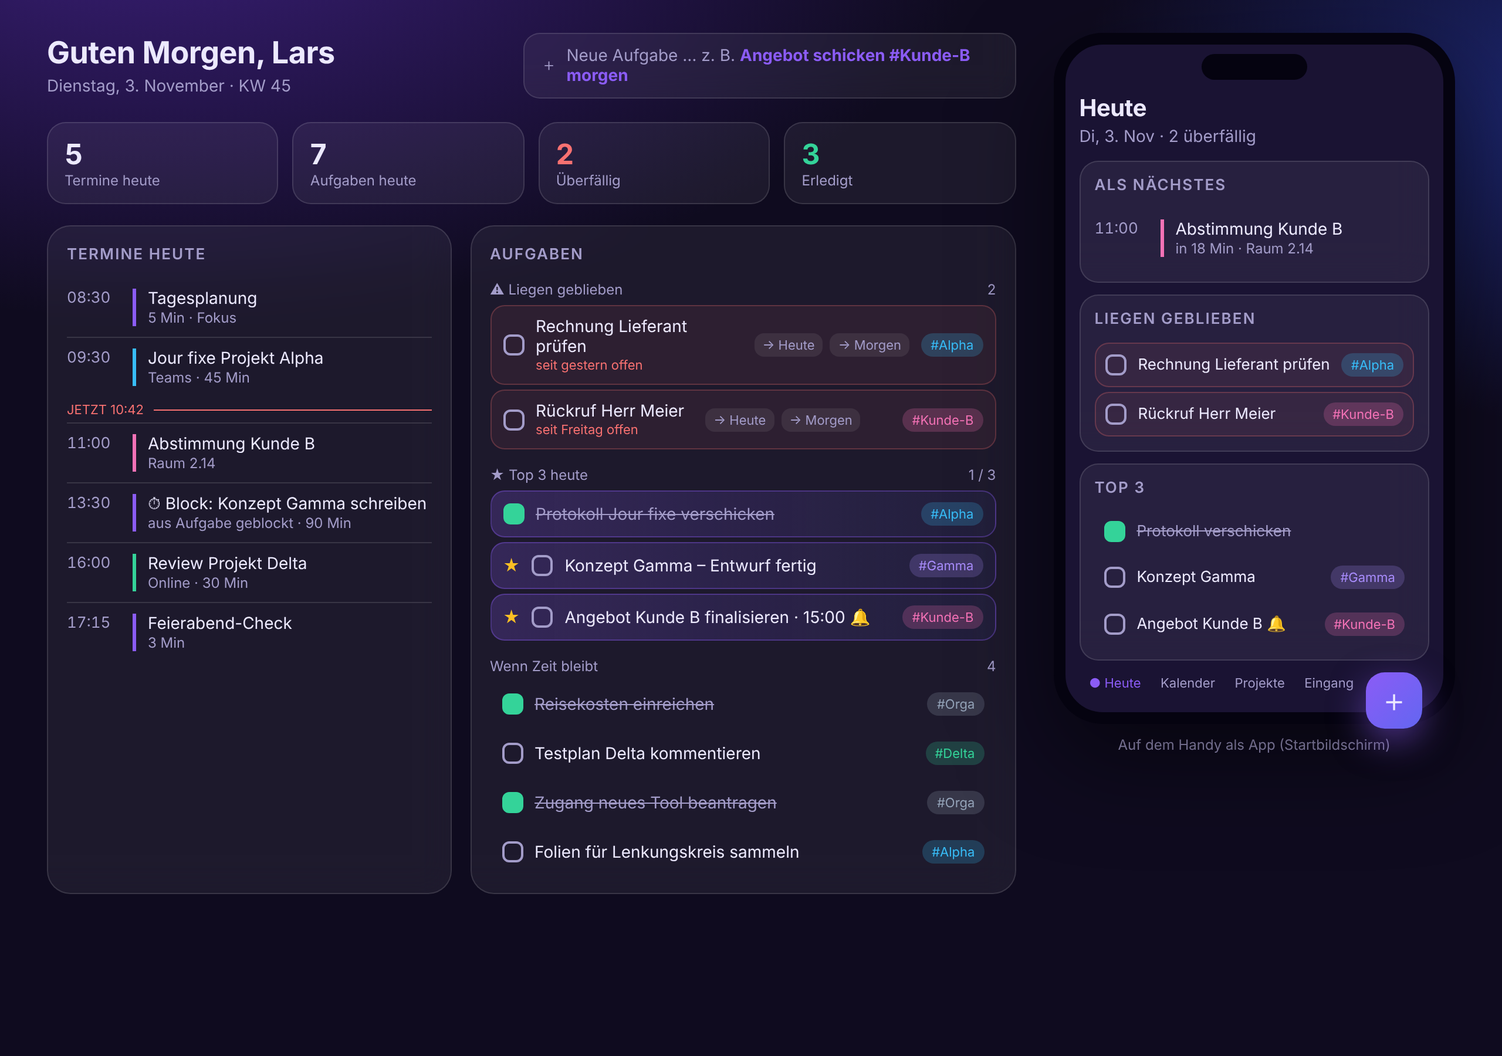
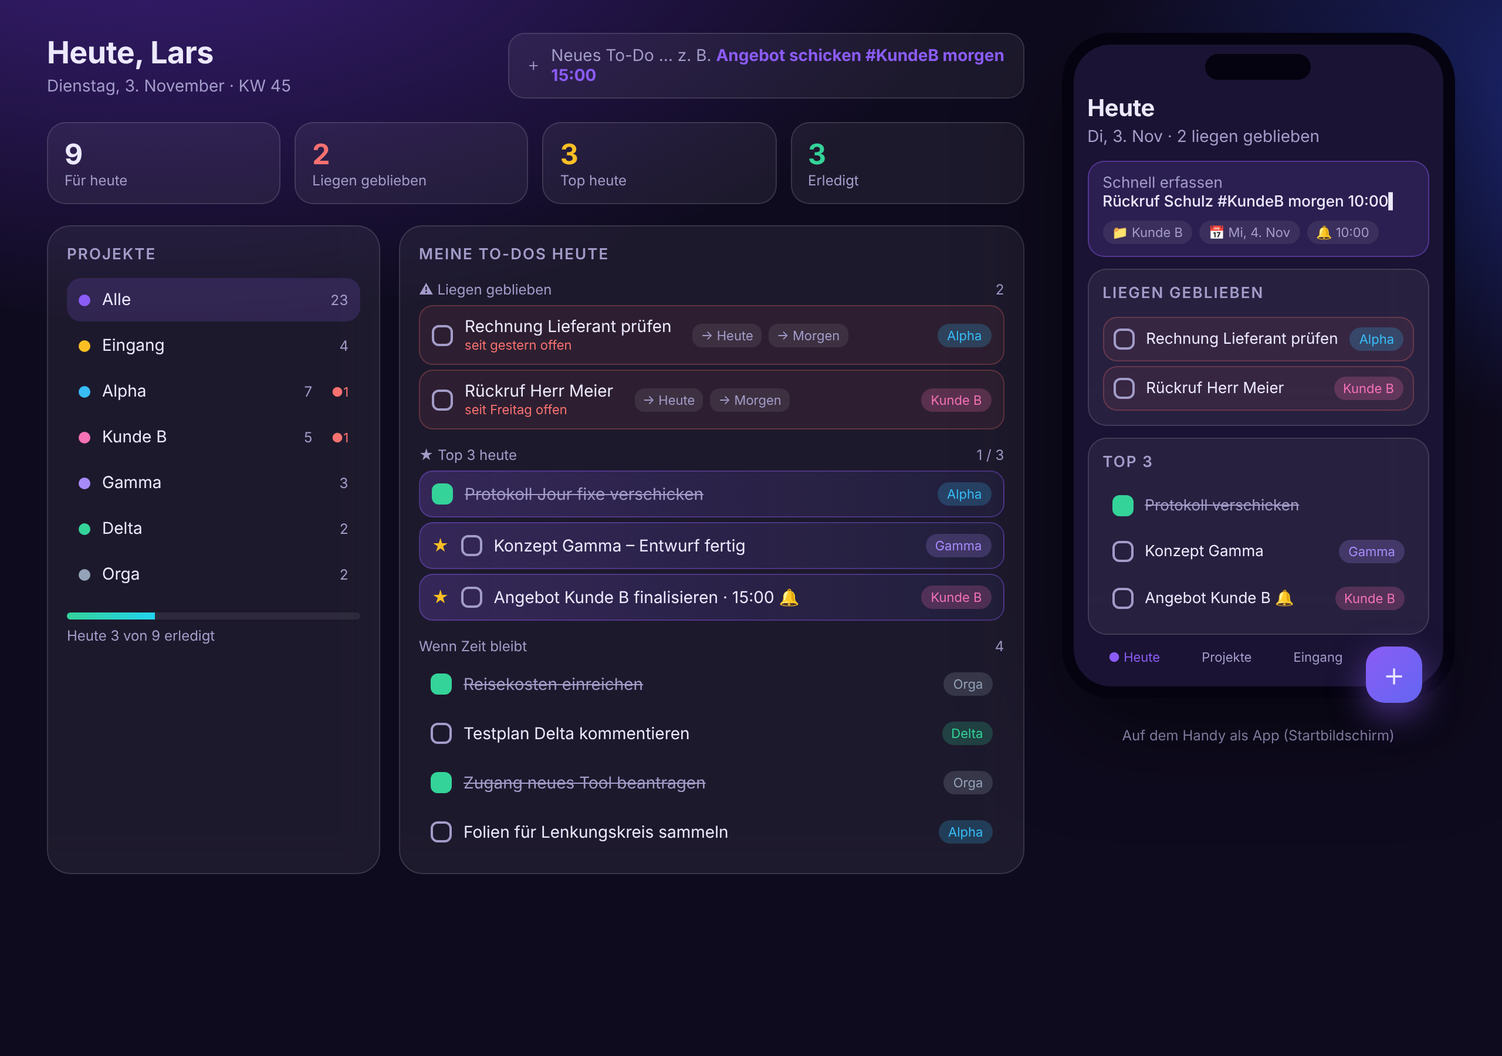
Plan auf reine To-Dos mit Google Tasks umgestellt, Entwurf ohne Kalender
Claude-Session: https://claude.ai/code/session_01KWwVGv9hX3GPZUP2uQExqH

diff --git a/entwurf/cockpit-entwurf.html b/entwurf/cockpit-entwurf.html
@@ -3,7 +3,7 @@
 <head>
 <meta charset="utf-8">
 <meta name="viewport" content="width=device-width, initial-scale=1">
-<title>Tages-Cockpit Entwurf</title>
+<title>To-Do Cockpit Entwurf</title>
 <style>
 :root{--bg:#0f0b1f;--bg2:#1a1333;--card:rgba(255,255,255,.06);--line:rgba(255,255,255,.12);--text:#ece9ff;--muted:#a39cc9;--accent:#8b5cf6;--accent2:#6366f1;--red:#f87171;--green:#34d399;--amber:#fbbf24}
 *{box-sizing:border-box}
@@ -13,22 +13,24 @@ body{margin:0;font-family:system-ui,-apple-system,"Segoe UI",sans-serif;color:va
 header{display:flex;justify-content:space-between;align-items:center;margin-bottom:20px;gap:12px;flex-wrap:wrap}
 h1{font-size:26px;margin:0;font-weight:650;letter-spacing:-.01em}
 .date{color:var(--muted);font-size:14px;margin-top:4px}
-.add{flex:1;max-width:420px;display:flex;align-items:center;gap:8px;background:var(--card);border:1px solid var(--line);border-radius:14px;padding:10px 14px;color:var(--muted);font-size:14px;backdrop-filter:blur(12px)}
+.add{flex:1;max-width:440px;display:flex;align-items:center;gap:8px;background:var(--card);border:1px solid var(--line);border-radius:14px;padding:10px 14px;color:var(--muted);font-size:14px}
 .add b{color:var(--accent)}
 .stats{display:grid;grid-template-columns:repeat(4,1fr);gap:12px;margin-bottom:18px}
 .stat{background:var(--card);border:1px solid var(--line);border-radius:16px;padding:12px 14px}
 .stat .n{font-size:24px;font-weight:700}
 .stat .l{font-size:12px;color:var(--muted)}
-.grid{display:grid;grid-template-columns:1fr 1.35fr;gap:16px}
+.grid{display:grid;grid-template-columns:.8fr 1.5fr;gap:16px}
 .card{background:var(--card);border:1px solid var(--line);border-radius:20px;padding:16px;backdrop-filter:blur(14px)}
 .card h2{font-size:13px;text-transform:uppercase;letter-spacing:.08em;color:var(--muted);margin:0 0 12px;font-weight:600}
-.ev{display:flex;gap:12px;padding:9px 0;border-top:1px solid var(--line)}
-.ev:first-of-type{border-top:0}
-.t{font-variant-numeric:tabular-nums;color:var(--muted);font-size:13px;width:44px;flex:none}
-.evb{border-left:3px solid var(--c,#6366f1);padding-left:10px;font-size:14px}
-.evb small{display:block;color:var(--muted);font-size:12px}
-.now{display:flex;align-items:center;gap:8px;color:var(--red);font-size:11px;margin:4px 0}
-.now:after{content:"";flex:1;height:1px;background:var(--red)}
+.proj{display:flex;align-items:center;gap:10px;padding:10px;border-radius:12px;font-size:14px}
+.proj+.proj{margin-top:2px}
+.proj.on{background:rgba(139,92,246,.18)}
+.dot{width:10px;height:10px;border-radius:50%;background:var(--c);flex:none}
+.proj .cnt{margin-left:auto;color:var(--muted);font-size:12px;font-variant-numeric:tabular-nums}
+.proj .warn{color:var(--red);font-size:11px;margin-left:6px}
+.bar{height:6px;border-radius:6px;background:rgba(255,255,255,.08);margin-top:14px;overflow:hidden}
+.bar i{display:block;height:100%;width:30%;background:linear-gradient(90deg,var(--green),#22d3ee)}
+.small{font-size:12px;color:var(--muted);margin-top:6px}
 .task{display:flex;align-items:center;gap:10px;padding:9px 10px;border-radius:12px;font-size:14px}
 .task+.task{margin-top:4px}
 .box{width:18px;height:18px;border:2px solid var(--muted);border-radius:6px;flex:none}
@@ -47,10 +49,14 @@ h1{font-size:26px;margin:0;font-weight:650;letter-spacing:-.01em}
 .phone h1{font-size:20px}
 .phone .card{padding:12px;border-radius:16px;margin-bottom:10px}
 .phone .task{font-size:13px;padding:8px}
-.tabbar{display:flex;justify-content:space-around;margin-top:12px;padding-right:56px;font-size:11px;color:var(--muted)}
+.quick{background:rgba(139,92,246,.15);border:1px solid rgba(139,92,246,.4);border-radius:14px;padding:10px 12px;font-size:13px;color:var(--muted);margin-bottom:10px}
+.quick b{color:var(--text);font-weight:500}
+.chips{display:flex;gap:6px;margin-top:8px;flex-wrap:wrap}
+.chips span{font-size:11px;padding:3px 8px;border-radius:999px;background:rgba(255,255,255,.08)}
+.tabbar{display:flex;justify-content:space-around;margin-top:12px;font-size:11px;color:var(--muted);padding-right:56px}
 .tabbar .on{color:var(--accent)}
 .fab{position:absolute;right:18px;bottom:-14px;width:48px;height:48px;border-radius:16px;background:linear-gradient(135deg,var(--accent),var(--accent2));display:grid;place-items:center;font-size:26px;box-shadow:0 10px 30px rgba(139,92,246,.5)}
-.cap{color:var(--muted);font-size:12px;text-align:center;margin-top:10px}
+.cap{color:var(--muted);font-size:12px;text-align:center;margin-top:24px}
 @media(max-width:760px){.grid{grid-template-columns:1fr}.stats{grid-template-columns:repeat(2,1fr)}.phone{flex-basis:100%;max-width:320px;margin:0 auto}}
 </style>
 </head>
@@ -58,64 +64,64 @@ h1{font-size:26px;margin:0;font-weight:650;letter-spacing:-.01em}
 <div class="wrap">
  <div class="desk">
   <header>
-   <div><h1>Guten Morgen, Lars</h1><div class="date">Dienstag, 3. November · KW 45</div></div>
-   <div class="add">＋ <span>Neue Aufgabe … z. B. <b>Angebot schicken #Kunde-B morgen</b></span></div>
+   <div><h1>Heute, Lars</h1><div class="date">Dienstag, 3. November · KW 45</div></div>
+   <div class="add">＋ <span>Neues To-Do … z. B. <b>Angebot schicken #KundeB morgen 15:00</b></span></div>
   </header>
   <div class="stats">
-   <div class="stat"><div class="n">5</div><div class="l">Termine heute</div></div>
-   <div class="stat"><div class="n">7</div><div class="l">Aufgaben heute</div></div>
-   <div class="stat"><div class="n" style="color:var(--red)">2</div><div class="l">Überfällig</div></div>
+   <div class="stat"><div class="n">9</div><div class="l">Für heute</div></div>
+   <div class="stat"><div class="n" style="color:var(--red)">2</div><div class="l">Liegen geblieben</div></div>
+   <div class="stat"><div class="n" style="color:var(--amber)">3</div><div class="l">Top heute</div></div>
    <div class="stat"><div class="n" style="color:var(--green)">3</div><div class="l">Erledigt</div></div>
   </div>
   <div class="grid">
    <div class="card">
-    <h2>Termine heute</h2>
-    <div class="ev"><div class="t">08:30</div><div class="evb" style="--c:#8b5cf6">Tagesplanung<small>5 Min · Fokus</small></div></div>
-    <div class="ev"><div class="t">09:30</div><div class="evb" style="--c:#38bdf8">Jour fixe Projekt Alpha<small>Teams · 45 Min</small></div></div>
-    <div class="now">JETZT 10:42</div>
-    <div class="ev"><div class="t">11:00</div><div class="evb" style="--c:#f472b6">Abstimmung Kunde B<small>Raum 2.14</small></div></div>
-    <div class="ev"><div class="t">13:30</div><div class="evb" style="--c:#8b5cf6">⏱ Block: Konzept Gamma schreiben<small>aus Aufgabe geblockt · 90 Min</small></div></div>
-    <div class="ev"><div class="t">16:00</div><div class="evb" style="--c:#34d399">Review Projekt Delta<small>Online · 30 Min</small></div></div>
-    <div class="ev"><div class="t">17:15</div><div class="evb" style="--c:#8b5cf6">Feierabend-Check<small>3 Min</small></div></div>
+    <h2>Projekte</h2>
+    <div class="proj on"><div class="dot" style="--c:#8b5cf6"></div>Alle<span class="cnt">23</span></div>
+    <div class="proj"><div class="dot" style="--c:#fbbf24"></div>Eingang<span class="cnt">4</span></div>
+    <div class="proj"><div class="dot" style="--c:#38bdf8"></div>Alpha<span class="cnt">7</span><span class="warn">●1</span></div>
+    <div class="proj"><div class="dot" style="--c:#f472b6"></div>Kunde B<span class="cnt">5</span><span class="warn">●1</span></div>
+    <div class="proj"><div class="dot" style="--c:#a78bfa"></div>Gamma<span class="cnt">3</span></div>
+    <div class="proj"><div class="dot" style="--c:#34d399"></div>Delta<span class="cnt">2</span></div>
+    <div class="proj"><div class="dot" style="--c:#94a3b8"></div>Orga<span class="cnt">2</span></div>
+    <div class="bar"><i></i></div>
+    <div class="small">Heute 3 von 9 erledigt</div>
    </div>
    <div class="card">
-    <h2>Aufgaben</h2>
+    <h2>Meine To-Dos heute</h2>
     <div class="sec"><span>⚠ Liegen geblieben</span><span>2</span></div>
-    <div class="task over"><div class="box"></div><span class="txt">Rechnung Lieferant prüfen<span class="meta">seit gestern offen</span></span><div class="btns"><i>→ Heute</i><i>→ Morgen</i></div><span class="tag" style="--c:#38bdf8">#Alpha</span></div>
-    <div class="task over"><div class="box"></div><span class="txt">Rückruf Herr Meier<span class="meta">seit Freitag offen</span></span><div class="btns"><i>→ Heute</i><i>→ Morgen</i></div><span class="tag" style="--c:#f472b6">#Kunde-B</span></div>
+    <div class="task over"><div class="box"></div><span class="txt">Rechnung Lieferant prüfen<span class="meta">seit gestern offen</span></span><div class="btns"><i>→ Heute</i><i>→ Morgen</i></div><span class="tag" style="--c:#38bdf8">Alpha</span></div>
+    <div class="task over"><div class="box"></div><span class="txt">Rückruf Herr Meier<span class="meta">seit Freitag offen</span></span><div class="btns"><i>→ Heute</i><i>→ Morgen</i></div><span class="tag" style="--c:#f472b6">Kunde B</span></div>
     <div class="sec"><span>★ Top 3 heute</span><span>1 / 3</span></div>
-    <div class="task top done"><div class="box"></div><span class="txt">Protokoll Jour fixe verschicken</span><span class="tag" style="--c:#38bdf8">#Alpha</span></div>
-    <div class="task top"><span class="star">★</span><div class="box"></div><span class="txt">Konzept Gamma – Entwurf fertig</span><span class="tag" style="--c:#a78bfa">#Gamma</span></div>
-    <div class="task top"><span class="star">★</span><div class="box"></div><span class="txt">Angebot Kunde B finalisieren · 15:00 🔔</span><span class="tag" style="--c:#f472b6">#Kunde-B</span></div>
+    <div class="task top done"><div class="box"></div><span class="txt">Protokoll Jour fixe verschicken</span><span class="tag" style="--c:#38bdf8">Alpha</span></div>
+    <div class="task top"><span class="star">★</span><div class="box"></div><span class="txt">Konzept Gamma – Entwurf fertig</span><span class="tag" style="--c:#a78bfa">Gamma</span></div>
+    <div class="task top"><span class="star">★</span><div class="box"></div><span class="txt">Angebot Kunde B finalisieren · 15:00 🔔</span><span class="tag" style="--c:#f472b6">Kunde B</span></div>
     <div class="sec"><span>Wenn Zeit bleibt</span><span>4</span></div>
-    <div class="task done"><div class="box"></div><span class="txt">Reisekosten einreichen</span><span class="tag" style="--c:#94a3b8">#Orga</span></div>
-    <div class="task"><div class="box"></div><span class="txt">Testplan Delta kommentieren</span><span class="tag" style="--c:#34d399">#Delta</span></div>
-    <div class="task done"><div class="box"></div><span class="txt">Zugang neues Tool beantragen</span><span class="tag" style="--c:#94a3b8">#Orga</span></div>
-    <div class="task"><div class="box"></div><span class="txt">Folien für Lenkungskreis sammeln</span><span class="tag" style="--c:#38bdf8">#Alpha</span></div>
+    <div class="task done"><div class="box"></div><span class="txt">Reisekosten einreichen</span><span class="tag" style="--c:#94a3b8">Orga</span></div>
+    <div class="task"><div class="box"></div><span class="txt">Testplan Delta kommentieren</span><span class="tag" style="--c:#34d399">Delta</span></div>
+    <div class="task done"><div class="box"></div><span class="txt">Zugang neues Tool beantragen</span><span class="tag" style="--c:#94a3b8">Orga</span></div>
+    <div class="task"><div class="box"></div><span class="txt">Folien für Lenkungskreis sammeln</span><span class="tag" style="--c:#38bdf8">Alpha</span></div>
    </div>
   </div>
  </div>
 
  <div>
  <div class="phone">
-  <h1>Heute</h1><div class="date" style="margin-bottom:12px">Di, 3. Nov · 2 überfällig</div>
-  <div class="card">
-   <h2>Als Nächstes</h2>
-   <div class="ev"><div class="t">11:00</div><div class="evb" style="--c:#f472b6">Abstimmung Kunde B<small>in 18 Min · Raum 2.14</small></div></div>
-  </div>
+  <h1>Heute</h1><div class="date" style="margin-bottom:12px">Di, 3. Nov · 2 liegen geblieben</div>
+  <div class="quick">Schnell erfassen<br><b>Rückruf Schulz #KundeB morgen 10:00▍</b>
+   <div class="chips"><span>📁 Kunde B</span><span>📅 Mi, 4. Nov</span><span>🔔 10:00</span></div></div>
   <div class="card">
    <h2>Liegen geblieben</h2>
-   <div class="task over"><div class="box"></div><span class="txt">Rechnung Lieferant prüfen</span><span class="tag" style="--c:#38bdf8">#Alpha</span></div>
-   <div class="task over"><div class="box"></div><span class="txt">Rückruf Herr Meier</span><span class="tag" style="--c:#f472b6">#Kunde-B</span></div>
+   <div class="task over"><div class="box"></div><span class="txt">Rechnung Lieferant prüfen</span><span class="tag" style="--c:#38bdf8">Alpha</span></div>
+   <div class="task over"><div class="box"></div><span class="txt">Rückruf Herr Meier</span><span class="tag" style="--c:#f472b6">Kunde B</span></div>
   </div>
   <div class="card">
    <h2>Top 3</h2>
    <div class="task done"><div class="box"></div><span class="txt">Protokoll verschicken</span></div>
-   <div class="task"><div class="box"></div><span class="txt">Konzept Gamma</span><span class="tag" style="--c:#a78bfa">#Gamma</span></div>
-   <div class="task"><div class="box"></div><span class="txt">Angebot Kunde B 🔔</span><span class="tag" style="--c:#f472b6">#Kunde-B</span></div>
+   <div class="task"><div class="box"></div><span class="txt">Konzept Gamma</span><span class="tag" style="--c:#a78bfa">Gamma</span></div>
+   <div class="task"><div class="box"></div><span class="txt">Angebot Kunde B 🔔</span><span class="tag" style="--c:#f472b6">Kunde B</span></div>
   </div>
   <div class="fab">＋</div>
-  <div class="tabbar"><span class="on">● Heute</span><span>Kalender</span><span>Projekte</span><span>Eingang</span></div>
+  <div class="tabbar"><span class="on">● Heute</span><span>Projekte</span><span>Eingang</span></div>
  </div>
  <div class="cap">Auf dem Handy als App (Startbildschirm)</div>
  </div>

diff --git a/PLAN.md b/PLAN.md
@@ -1,101 +1,63 @@
-# Plan: Mein Tages-Cockpit für Aufgaben und Termine
+# Plan: Schluss mit den gelben Zetteln
 
-## Das Problem in einem Satz
-Viele Projekte gleichzeitig → Aufgaben liegen verstreut (Mails, Notizen, Kopf) → am Ende des Tages fällt etwas durch.
+## Ziel
+Alle beruflichen To-Dos an **einem** Ort statt auf Zetteln am Schreibtisch:
+- zeigt jeden Morgen, was **heute** dran ist,
+- behält Unerledigtes sichtbar, bis es erledigt oder bewusst gestrichen ist,
+- erinnert per Handy,
+- am PC und auf dem Handy gleich, **komplett kostenlos**.
 
-## Das Ziel
-Ein einziger Ort, der jeden Morgen zeigt:
-1. **Meine Termine heute** (aus dem Google Kalender)
-2. **Meine Aufgaben heute** – plus alles, was gestern liegen geblieben ist
-3. **Erinnerungen**, damit nichts vergessen wird
-
-Und das am PC und auf dem Handy gleich.
+**Abgrenzung:** Feste Termine bleiben im Outlook-Kalender. Hier geht es nur um To-Dos.
+**Speicherort:** Google Tasks im privaten Google-Konto.
 
 ---
 
-## Grundregeln (die Methode ist wichtiger als das Tool)
+## Die Regeln (wichtiger als das Tool)
 
 | Regel | Was das heißt |
 |---|---|
-| **1. Ein Eingang** | Jede Aufgabe landet sofort an *einem* Ort, egal aus welchem Projekt. Kein Zettel, keine zweite Liste. |
-| **2. Erfassen in 10 Sekunden** | Titel + Projekt + (optional) Datum. Mehr nicht. Sortieren kommt später. |
-| **3. Projekt als Etikett** | Jede Aufgabe bekommt ein Projekt-Kürzel (z. B. `#Alpha`, `#Kunde-B`). So bleibt eine Liste, aber man kann filtern. |
-| **4. Nichts verschwindet** | Unerledigtes wandert automatisch in „Heute – überfällig“. Es wird nie stillschweigend gelöscht. |
-| **5. Maximal 3 Top-Aufgaben pro Tag** | Der Rest ist „wenn Zeit bleibt“. Das hält den Tag realistisch. |
-| **6. Große Aufgaben bekommen einen Kalenderblock** | Was länger als 30 Minuten dauert, wird als Termin geblockt – sonst passiert es nicht. |
+| **1. Kein neuer Zettel** | Jedes To-Do sofort ins Handy oder in den PC tippen. Der Zettelblock kommt in die Schublade. |
+| **2. In 10 Sekunden erfassen** | Titel + Projekt, Datum nur wenn nötig. Sortiert wird später. |
+| **3. Jedes To-Do hat ein Projekt** | Kürzel vorn im Titel, z. B. `[Alpha] Protokoll verschicken`. Alles ohne Projekt landet in „Eingang“. |
+| **4. Nichts verschwindet** | Unerledigtes von gestern taucht oben unter „Liegen geblieben“ auf, bis du es erledigst, verschiebst oder bewusst löschst. |
+| **5. Höchstens 3 Top-To-Dos pro Tag** | Der Rest heißt „wenn Zeit bleibt“. |
+| **6. Erinnerung nur, wo nötig** | Uhrzeit nur setzen, wenn es wirklich zu einer Zeit passieren muss (Rückruf, Abgabe). |
+
+**Datenschutz-Hinweis:** Da es ein privates Konto ist, nur Stichworte notieren (z. B. „Angebot Kunde B finalisieren“), keine vertraulichen Inhalte, Zahlen oder Personendaten.
 
 ---
 
-## Der Tagesablauf (Workflow)
+## Der Tagesablauf
 
 | Wann | Dauer | Was |
 |---|---|---|
-| **Morgens** | 5 Min | Cockpit öffnen → Termine ansehen → überfällige Aufgaben neu einplanen oder streichen → 3 Top-Aufgaben markieren |
-| **Tagsüber** | Sekunden | Neue Aufgaben sofort per Handy oder PC erfassen (Eingang). Erledigtes abhaken. |
-| **Erinnerungen** | automatisch | Bei Aufgaben mit Uhrzeit + 10 Min vor Kalenderblöcken |
-| **Feierabend** | 3 Min | Was offen ist: auf morgen schieben, delegieren oder bewusst löschen |
-| **Freitag** | 15 Min | Wochenrückblick: alle Projekte durchgehen, nächste Woche grob blocken |
+| **Morgens** | 3 Min | Ansicht „Heute“ öffnen → Liegengebliebenes auf heute/morgen schieben oder streichen → 3 Top-To-Dos markieren |
+| **Tagsüber** | Sekunden | Statt Zettel: Handy oder PC, Plus-Knopf, tippen, fertig |
+| **Feierabend** | 2 Min | Offenes verschieben oder streichen, Eingang leeren |
+| **Freitag** | 10 Min | Alle Projekte durchgehen: Was hängt? Was ist erledigt? |
 
 ---
 
-## Drei Wege zum Tool – mit Empfehlung
+## Umsetzung in zwei Stufen
 
-### Weg A: Google Tasks + Google Kalender (sofort, kostenlos)
-- Aufgaben direkt im Google Kalender und in der Google-Tasks-App auf dem Handy.
-- Je Projekt eine eigene Liste.
-- **Plus:** null Aufwand, alles schon da, Erinnerungen per Handy.
-- **Minus:** keine Projekt-Etiketten, keine schöne Tagesansicht über alle Listen, Überfälliges wird nur schwach hervorgehoben.
+### Stufe 1 – Sofort, mit der Google-Tasks-App (heute, 30 Min)
+- [ ] Google-Tasks-App aufs Handy (Android/iOS), Benachrichtigungen erlauben
+- [ ] Am PC: Google Tasks ist in Gmail/Google Kalender rechts in der Seitenleiste, oder direkt unter tasks.google.com
+- [ ] Listen anlegen: **Eingang** + eine Liste je aktivem Projekt
+- [ ] **Zettel-Ablöse:** alle gelben Zettel einmal abtippen. Abkürzung: Zettel fotografieren, Foto hier im Chat hochladen, Claude macht daraus eine fertige Liste mit Projekt-Kürzeln zum Abtippen.
+- [ ] Zettel wegwerfen
 
-### Weg B: Todoist (fertige App, ca. 5 €/Monat für Pro)
-- Beste fertige Lösung für viele Projekte: Etiketten, Filter, „Heute“-Ansicht mit Überfälligem, Spracheingabe („Angebot an Kunde B Freitag 10 Uhr #Kunde-B“).
-- Zwei-Wege-Abgleich mit dem Google Kalender.
-- **Plus:** sehr intuitiv, App für Handy, PC, Browser.
-- **Minus:** Erinnerungen und Kalender-Abgleich nur in der bezahlten Version; Daten liegen bei einem weiteren Anbieter.
+Damit ist das Kernproblem schon gelöst. Die Lücke von Google Tasks: Es gibt **keine gemeinsame „Heute“-Ansicht über alle Listen**, Überfälliges ist nur klein rot markiert und Top 3 gibt es nicht. Das schließt Stufe 2.
 
-### Weg C: Eigenes Tages-Cockpit (dieses Repository) ⭐ Empfehlung auf Sicht
-Eine eigene Web-App, die genau deinen Workflow abbildet:
-- **Daten bleiben bei Google:** Aufgaben werden in Google Tasks gespeichert, Termine kommen aus dem Google Kalender. Kein eigener Server, kein Datenverlust, wenn die App mal nicht läuft – die Google-Apps funktionieren weiter.
-- **Eine Ansicht für alles:** Termine als Zeitleiste links, Aufgaben rechts, Überfälliges oben rot markiert, Top 3 hervorgehoben, Filter nach Projekt.
-- **Aufs Handy als App:** als „PWA“ – einmal im Browser öffnen, „Zum Startbildschirm hinzufügen“, fertig. Kein App-Store nötig.
-- **Erinnerungen:** über die Google-Tasks- und Kalender-Benachrichtigungen auf dem Handy, die ohnehin schon funktionieren.
-- **Komplett kostenlos:** Google Kalender und Google Tasks samt Schnittstellen kosten bei privater Nutzung nichts, das Hosting läuft gratis über GitHub Pages (Repo muss dafür öffentlich sein, es enthält aber nur Programmcode, keine Aufgaben) oder alternativ Cloudflare Pages / Netlify (auch mit privatem Repo kostenlos).
+### Stufe 2 – Eigenes Cockpit „Heute“ (2–3 Sitzungen)
+Eine kleine Web-App, die auf **dieselben Google-Tasks-Daten** zugreift, nur mit besserer Oberfläche (siehe Entwurf):
+- [ ] Anmeldung mit dem privaten Google-Konto (Google-Cloud-Projekt, Tasks-Schnittstelle, kostenlos)
+- [ ] Ansicht „Heute“: Liegen geblieben · Top 3 · Wenn Zeit bleibt, über alle Listen hinweg
+- [ ] Ein Klick: „→ Heute“, „→ Morgen“, „Erledigt“, „★ Top“
+- [ ] Schnell-Eingabe: `Angebot schicken #KundeB morgen 15:00` → richtige Liste, richtiges Datum
+- [ ] Projektübersicht: wie viel ist je Projekt offen, was hängt seit Tagen
+- [ ] Kostenlos online über GitHub Pages / Cloudflare Pages; aufs Handy über „Zum Startbildschirm hinzufügen“
 
-**Meine Empfehlung:** Heute mit **Weg A** starten (die Methode einüben, kostet nichts), parallel **Weg C** bauen. Da Weg C auf denselben Google-Daten aufsetzt, geht nichts verloren – das Cockpit ist einfach die bessere Oberfläche obendrauf. Wer lieber gar nichts bauen will, nimmt Weg B.
+Weil alles in Google Tasks gespeichert bleibt, funktionieren die Google-App und ihre Erinnerungen parallel weiter. Fällt das Cockpit mal aus, geht nichts verloren.
 
-Ein Entwurf des Cockpits liegt unter [`entwurf/cockpit-entwurf.html`](entwurf/cockpit-entwurf.html), der Screenshot unter [`entwurf/cockpit-entwurf.png`](entwurf/cockpit-entwurf.png).
-
----
-
-## Umsetzungsplan
-
-### Phase 0 – Sofort (heute, 30 Min)
-- [ ] In Google Tasks eine Liste „Eingang“ anlegen; je aktivem Projekt eine Liste
-- [ ] Google-Tasks-App auf dem Handy installieren, Benachrichtigungen an
-- [ ] Alle Aufgaben aus dem Kopf und aus Notizen einmal in „Eingang“ schreiben
-- [ ] Wiederkehrende Kalendertermine anlegen: „Tagesplanung“ (morgens 5 Min), „Feierabend-Check“ (3 Min), „Wochenrückblick“ (Fr, 15 Min)
-
-### Phase 1 – Grundgerüst Cockpit (1–2 Sitzungen)
-- [ ] Google-Cloud-Projekt anlegen, Kalender- und Tasks-Schnittstelle freischalten, Login einrichten
-- [ ] Web-App mit Anmeldung über das Google-Konto
-- [ ] Tagesansicht: Termine heute + Aufgaben heute + Überfälliges
-- [ ] Abhaken, neue Aufgabe erfassen, „auf morgen schieben“ mit einem Klick
-- [ ] Veröffentlichung über GitHub Pages, auf dem Handy zum Startbildschirm hinzufügen
-
-### Phase 2 – Komfort (1–2 Sitzungen)
-- [ ] Projekt-Filter und Farben je Projekt
-- [ ] Top-3-Markierung
-- [ ] „In den Kalender blocken“: Aufgabe per Klick als Zeitblock in freie Lücke legen
-- [ ] Schnell-Eingabe mit Kürzeln: `Angebot schicken #Kunde-B morgen`
-
-### Phase 3 – Extras (optional)
-- [ ] Morgen-Briefing durch Claude (`/morning`): fasst Termine und offene Aufgaben jeden Werktag zusammen
-- [ ] Wochenrückblick-Ansicht: was wurde erledigt, was hängt seit Tagen
-- [ ] Aufgaben aus Mails übernehmen (Gmail-Markierung → Aufgabe)
-
----
-
-## Offene Fragen an dich
-1. Nutzt du beruflich auch Google (Workspace) oder ist der Job-Kalender ein anderer, z. B. Outlook? Das entscheidet, welche Schnittstelle wir anbinden.
-2. Darf der Arbeitskalender mit dem privaten Google-Konto verbunden werden, oder gibt es Firmenregeln dagegen?
-3. Wie viele Projekte laufen etwa gleichzeitig (5? 15?)?
-4. Lieber erst Weg A/B testen oder direkt mit Weg C loslegen?
+Entwurf: [`entwurf/cockpit-entwurf.html`](entwurf/cockpit-entwurf.html) · Screenshot: [`entwurf/cockpit-entwurf.png`](entwurf/cockpit-entwurf.png)
